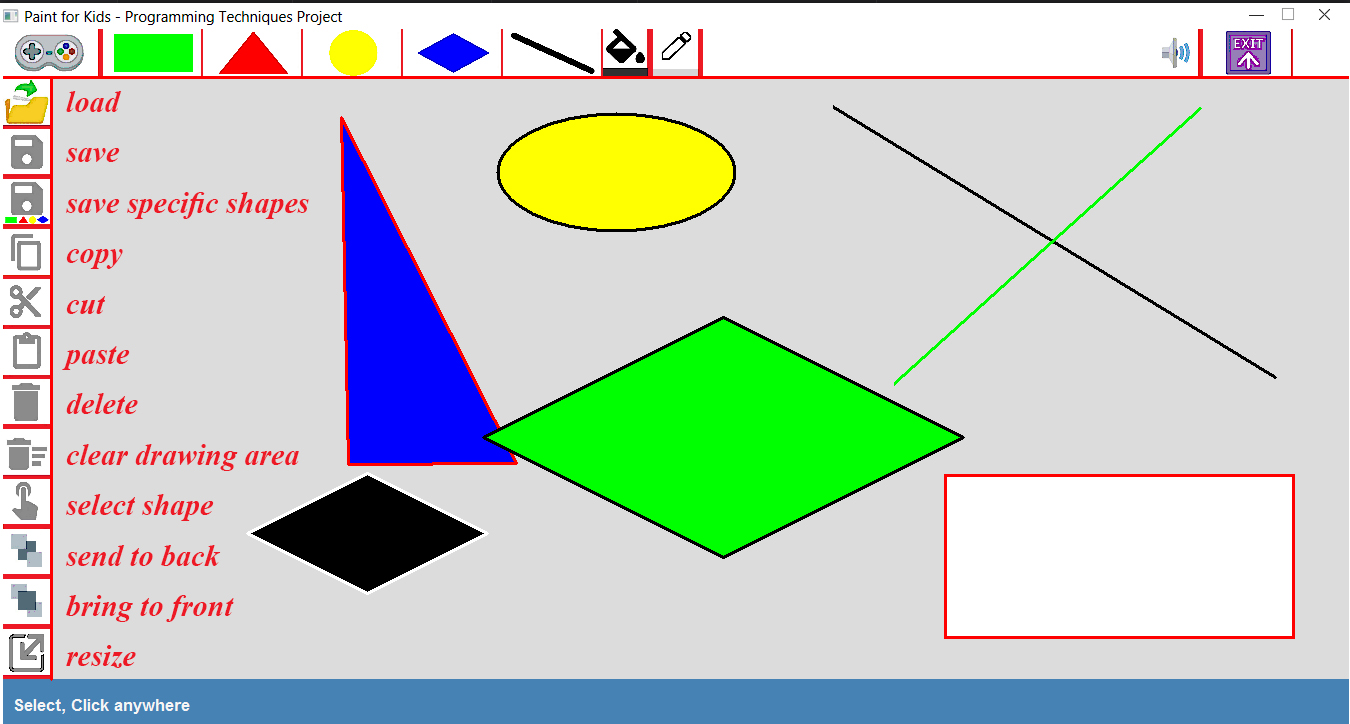
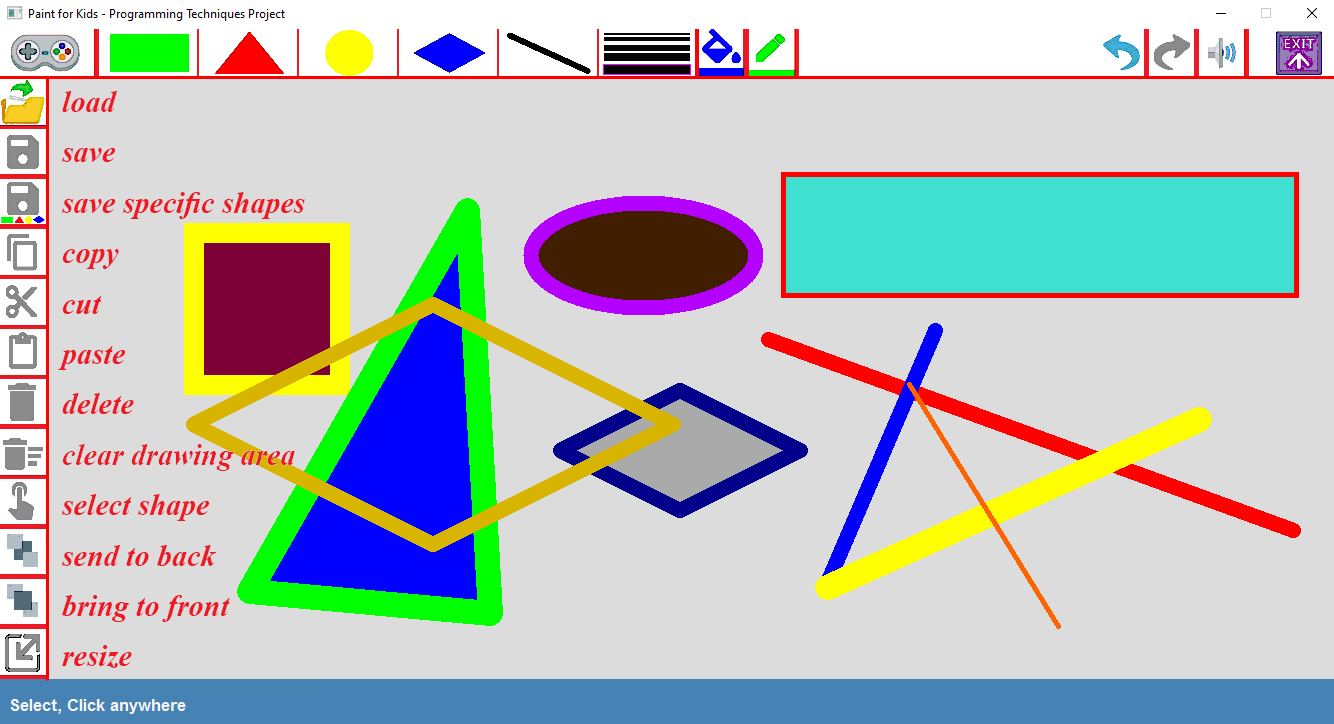
Update README.md

diff --git a/README.md b/README.md
@@ -1,35 +1,44 @@
 # Paint For Kids
-**This is a project for OOP Course in Cairo University - Faculty of Engineering - Computer Department**
+### **This is a project for OOP Course in Cairo University - Faculty of Engineering - Computer Department**
+### **Built with Visual Studio 2012**
+### **Using CMU Graphics Library**
 
-**By :**
+#### **By :**
 - **Abd El Rahman Ahmed Farid** [@onecalled3bkr](https://github.com/onecalled3bkr)
 - **Omar Salama** [@omarsalama98](https://github.com/omarsalama98)
-- **Omar Mostafa**[@3omar-mostafa](https://github.com/3omar-mostafa)
-- **Naiera Magdy**[@naiera-magdy](https://github.com/naiera-magdy)
+- **Omar Mostafa** [@3omar-mostafa](https://github.com/3omar-mostafa)
+- **Naiera Magdy** [@naiera-magdy](https://github.com/naiera-magdy)
 
 ---
 
 ## **Consists of two Modes:**
 ## **First : Draw Mode**
-**Users can draw any shape in the toolbar with any color they choose from the menu**
-**On the left there is the Actions menu which contains the basic functions the users may need**
-**Which are:**
+#### **Users can draw any shape in the toolbar with any color they choose from the menu**
+#### **On the left there is the Actions menu which contains the basic functions the users may need which are:**
 - **Load**
 - **Save**
 - **Save by type of shapes**
-- **copy**
-- **cut**
-- **paste**
-- **delete**
-- **clear drawing area**
-- **select a shape**
-- **send to back**
-- **bring to front**
+- **Copy**
+- **Cut**
+- **Paste**
+- **Delete**
+- **Clear drawing area**
+- **Select a shape**
+- **Send to back**
+- **Bring to front**
 - **Resize (4 options 1/4 , 1/2 , 2 , 4 of the original size)**
+
 
 ![Image](/assets/draw_mode_1.jpg)
 
 
+#### **On Top there are more actions which are:**
+- **Change Border Size (5 Sizes)**
+- **Change fill color**
+- **Change draw(border) color**
+- **Undo**
+- **Redo**
+- **Turn sounds on or off**
 
 ![Image](/assets/draw_mode_2.jpg)
 
@@ -37,10 +46,8 @@
 ---
 
 
-**There are 6 colors to choose from :**
-**Black , White , Red , Yellow , Green , Blue**
-
-**Plus filled or unfilled icon**
+#### **There are 22 colors to choose from**
+#### **Plus filled or unfilled option**
 
 ![Image](/assets/colors.jpg)
 
@@ -55,11 +62,10 @@
 
 ---
 ### 
-### **The program have sounds ( can be off ) which speaks the name of the shape the user is going to draw and in play mode on right or wrong answer**
+### **The program have sounds ( can be turned off ) which speaks the name of the shape the user is going to draw and in play mode on right or wrong answer**
 
 ---
 
 ## **Main Classes**
 
 ![Image](/assets/main_classes.png)
-
